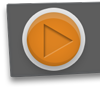
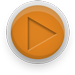
Change sprites for buttons

diff --git a/main.js b/main.js
@@ -75,64 +75,55 @@ define(['exports', 'cocos2d', 'qlayer', 'toollayer', 'instructioncontainer', 'in
             this.splashNode.setPosition(this.getContentSize().width/2, (topOfTicker + this.getContentSize().height)/2);
             this.addChild(this.splashNode);
 
+            var self = this;
+
+            var playButtonPanel = new cc.Sprite();
+            playButtonPanel.initWithFile(window.bl.getResource('play_button_panel'));
+            playButtonPanel.setPosition(this._windowSize.width - playButtonPanel.getContentSize().width/2, 700);
+            this.addChild(playButtonPanel);
+
             this.playButton = new BLButton();
             this.playButton.initWithFile(window.bl.getResource('play_button'));
-            this.playButton.setPosition(this._windowSize.width - this.playButton.getContentSize().width/2, 700);
-            this.addChild(this.playButton);
+            this.playButton.setPosition(cc.pAdd(playButtonPanel.getAnchorPointInPoints(), cc.p(0, -1)));
+            playButtonPanel.addChild(this.playButton);
 
-            var self = this;
-            this.playButton.onTouchUp(function() {
+            var play = function(speed) {
                 if (self.instructionTicker.valid) {
                     self.splashNode.reset();
                     var arrow = self.splashNode.arrow;
-                    arrow.speed = speedLabel.speed;
+                    arrow.speed = speed;
                     var instructions = self.instructionTicker.instructions;
                     arrow.followInstructions(instructions);
-                    // arrow.freakOut();
                 } else {
                     self.instructionTicker.showInvalidBrackets();
                 };
-            });
+            };
 
-            var speedLabel = new cc.LabelTTF.create("", "mikadoBold", 20);
-            speedLabel.setPosition(970, 580);
-            this.addChild(speedLabel);
-            speedLabel.speed = 1;
-            speedLabel.setString(speedLabel.speed);
-
-            this.speedUp = new BLButton();
-            this.speedUp.initWithFile(window.bl.getResource('up_button'));
-            this.speedUp.setPosition(970, 620);
-            this.addChild(this.speedUp);
-            this.speedUp.onTouchUp(function() {
-                if (speedLabel.speed < 10) {
-                    speedLabel.speed++;
-                    speedLabel.setString(speedLabel.speed);
-                };
-            });
-
-            this.speedDown = new BLButton();
-            this.speedDown.initWithFile(window.bl.getResource('down_button'));
-            this.speedDown.setPosition(970, 520);
-            this.addChild(this.speedDown);
-            this.speedDown.onTouchUp(function() {
-                if (speedLabel.speed > 1) {
-                    speedLabel.speed--;
-                    speedLabel.setString(speedLabel.speed);
-                };
+            this.playButton.onTouchUp(function() {
+                play(1);
             });
 
             this.stopButton = new BLButton();
             this.stopButton.initWithFile(window.bl.getResource('free_form_closebutton'));
-            this.stopButton.setPosition(970, 450);
-            this.addChild(this.stopButton);
+            this.stopButton.setPosition(cc.pAdd(playButtonPanel.getAnchorPointInPoints(), cc.p(0, -1)));
+            playButtonPanel.addChild(this.stopButton);
             this.stopButton.onTouchUp(function() {
                 self.splashNode.arrow.breakMovement = true;
             });
+            this.stopButton.setEnabled(false);
+            this.stopButton.setVisible(false);
+
+            this.fastForwardButton = new BLButton();
+            this.fastForwardButton.initWithFile(window.bl.getResource('fastforward_button'));
+            this.fastForwardButton.setPosition(this._windowSize.width - this.fastForwardButton.getContentSize().width/2, 610);
+            this.addChild(this.fastForwardButton);
+            this.fastForwardButton.onTouchUp(function() {
+                play(8)
+            });
 
             this.clearButton = new BLButton();
-            this.clearButton.initWithFile(window.bl.getResource('clear_button'));
-            this.clearButton.setPosition(970, 400);
+            this.clearButton.initWithFile(window.bl.getResource('reset_button'));
+            this.clearButton.setPosition(this._windowSize.width - this.clearButton.getContentSize().width/2, 450);
             this.addChild(this.clearButton);
             this.clearButton.onTouchUp(function() {
                 self.instructionTicker.clearInstructions();
@@ -206,14 +197,19 @@ define(['exports', 'cocos2d', 'qlayer', 'toollayer', 'instructioncontainer', 'in
             });
         },
 
+        showPlay:function(play) {
+            this.playButton.setVisible(play);
+            this.playButton.setEnabled(play);
+            this.stopButton.setVisible(!play);
+            this.stopButton.setEnabled(!play);
+        },
+
         update:function() {
             this._super();
             if (this.following !== this.splashNode.arrow.following) {
                 this.following = this.splashNode.arrow.following;
-                this.playButton.setGreyedOut(this.following);
-                this.speedUp.setGreyedOut(this.following);
-                this.speedDown.setGreyedOut(this.following);
-                this.stopButton.setGreyedOut(!this.following);
+                this.showPlay(!this.following);
+                this.fastForwardButton.setGreyedOut(this.following);
                 this.clearButton.setGreyedOut(this.following);
                 this.instructionTicker.showPlayingDisplay(this.following);
                 this.instructionTicker.setInstructionsDraggable(!this.following);

diff --git a/control-layer.js b/control-layer.js
@@ -10,8 +10,8 @@ define(['blbutton'], function(BLButton) {
 			upButton.registerWithTouchDispatcher = function() {
 				cc.Director.getInstance().getTouchDispatcher().addTargetedDelegate(this, -210, true);
 			};
-			upButton.initWithFile(window.bl.getResource('up_button'));
-			upButton.setPosition(0, 55);
+			upButton.initWithFile(window.bl.getResource('up_arrow'));
+			upButton.setPosition(0, 40);
 			upButton.onTouchUp(function() {
 				self.target.processUp();
 			});
@@ -22,8 +22,8 @@ define(['blbutton'], function(BLButton) {
 			downButton.registerWithTouchDispatcher = function() {
 				cc.Director.getInstance().getTouchDispatcher().addTargetedDelegate(this, -210, true);
 			};
-			downButton.initWithFile(window.bl.getResource('down_button'));
-			downButton.setPosition(0, -60);
+			downButton.initWithFile(window.bl.getResource('down_arrow'));
+			downButton.setPosition(0, -35);
 			downButton.onTouchUp(function() {
 				self.target.processDown();
 			});

diff --git a/instruction-container.js b/instruction-container.js
@@ -47,7 +47,6 @@ define(['instructiondragbutton', 'scrollbar', 'constants'], function(Instruction
             var scrollBar = new ScrollBar();
             this.scrollBar = scrollBar;
             scrollBar.initWithOrientation(false);
-            // scrollBar.setPosition(this.getAnchorPointInPoints());
             this.addChild(scrollBar);
 
             scrollBar.setDragAreaRect(cc.RectMake(scrollBarLowerX + scrollBar.bottomHeight(), scrollBarY,
